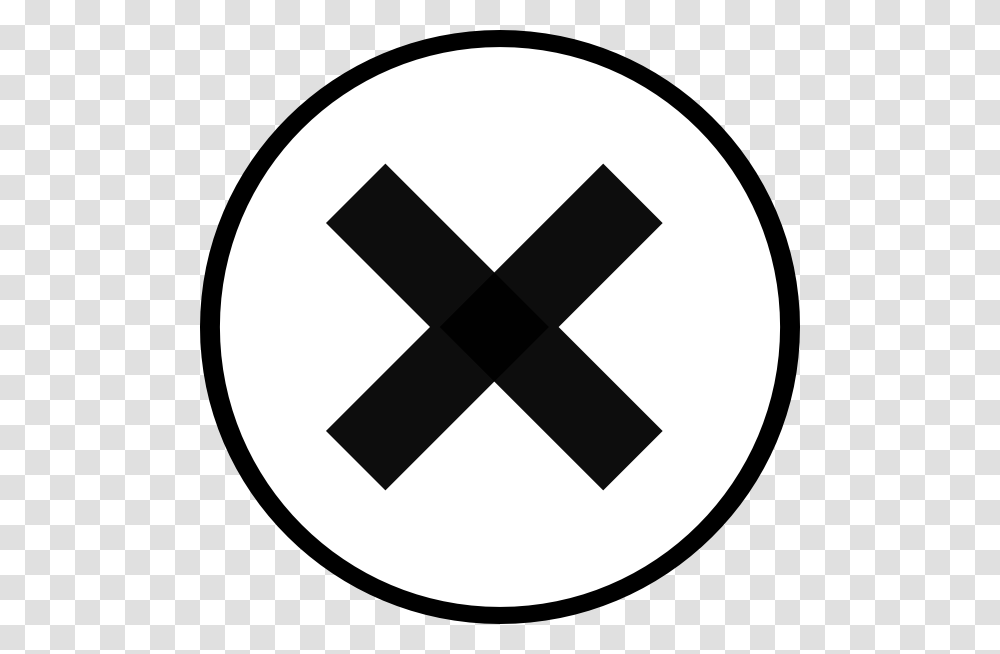
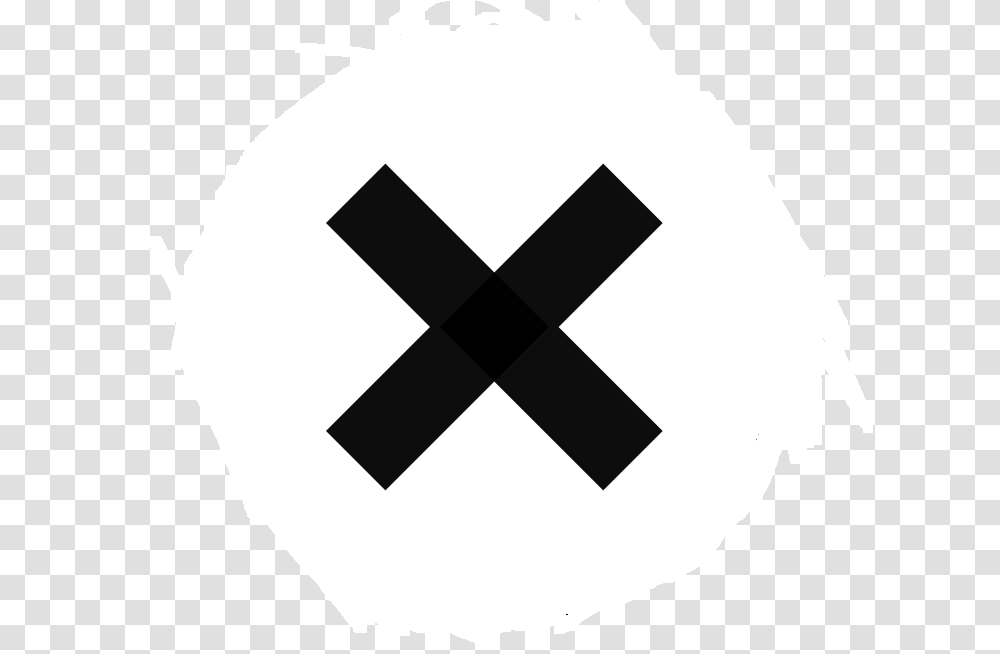
"changed colors of the autoComplete list and changed x button"

Changed region(s): [[0.155, 0.0, 0.868, 0.9786]]

diff --git a/assets/styles/autoTwo.css b/assets/styles/autoTwo.css
@@ -40,7 +40,7 @@ body {
   width: 90%;
   height: 1px;
   margin: 0px auto;
-  border-bottom: 1px solid #969696;
+  border-top: 1px solid #969696;
 }
 .no_result {
   margin: 0.3rem;
@@ -278,7 +278,7 @@ button {
 #autoComplete {
   border-radius: 25px;
   border-color: #cdcff8;
-  color: #BEA9D2;
+  /* color: #BEA9D2; */
   padding-left: 20px;
   padding-right: 20px;
   background-color: white;
@@ -300,7 +300,7 @@ button {
 }
 
 .noGlass {
-  background-image: url(./../../uploads/ResourceImage/xButton-removebg-preview.png);
+  background-image: url("./../../uploads/ResourceImage/xButton-removebg-preview(1).png");
   background-size: 55px;
 }
 
@@ -355,10 +355,11 @@ makes it look quite ugly*/
   border: 1px solid rgba(33, 33, 33, 0.2);
   outline: none;
   height: 45px;
+
 }
 
 .autoComplete_wrapper>input::placeholder {
-  color: #BEA9D2;
+  /* color: #BEA9D2; */
   transition: all 0.3s ease;
 }
 
@@ -376,6 +377,8 @@ makes it look quite ugly*/
   border: 1px solid rgba(33, 33, 33, 0.1);
   outline: none;
   z-index:601;
+  border-bottom-left-radius: 25px;
+  border-bottom-right-radius: 25px;
 }
 
 .autoComplete_wrapper>ul>li {
@@ -383,7 +386,7 @@ makes it look quite ugly*/
   list-style: none;
   text-align: left;
   font-size: 16px;
-  color: #BEA9D2;
+  /* color: #BEA9D2; */
   transition: all 0.1s ease-in-out;
   border-radius: 3px;
   background-color: rgba(255, 255, 255, 1);
@@ -394,6 +397,10 @@ makes it look quite ugly*/
   z-index: 600;
 }
 
+.resultMessage strong
+{
+  color: #6371B6;
+}
 .nav-resources a {
   color: #606eb0;
   border-bottom: 3px solid #606eb0;
@@ -413,7 +420,7 @@ makes it look quite ugly*/
 
 .autoComplete_wrapper>ul>li mark {
   background-color: transparent;
-  color:  #6371B6;
+  color: #969696;
   font-weight: bold;
 }
 
@@ -424,11 +431,6 @@ makes it look quite ugly*/
 
 .autoComplete_wrapper>ul>li[aria-selected="true"] {
   background-color: rgba(123, 123, 123, 0.1);
-}
-
-#autoComplete, #autoComplete:not(:focus)
-{
-  border-radius:25px;
 }
 @media only screen and (max-width: 600px) {
   .autoComplete_wrapper>input {

diff --git a/assets/scripts/resource.js b/assets/scripts/resource.js
@@ -99,16 +99,14 @@ function inputZero(valueLength) {
     } else {
         input.style.borderBottomRightRadius = "0px";
         input.style.borderBottomLeftRadius = "0px";
-        $
         input.setAttribute('class', 'noGlass');
-    }
+    } 
 }
 //deletes the value of autoComplete bar
 function clearAutoComplete(event, eleTest) {
     var rect = eleTest.getBoundingClientRect();
     var x = event.clientX;
-    if (document.querySelector('#autoComplete')
-        .className === 'noGlass') {
+    if (document.querySelector('#autoComplete').className === 'noGlass') {
         // &&(y<rect.y + rect.height && y < rect.y+rect.height-55)
         if (x < (rect.x + rect.width) && x > (rect.x + rect.width - 55)) {
             input.value = "";

diff --git a/index.html b/index.html
@@ -169,6 +169,8 @@ filter: (function (list) {
     var inner = document.createElement("div");
     inner.setAttribute("class", "innerBorder");
     var message = document.createElement("div");
+    message.setAttribute("class", "resultMessage");
+    message.style.color = "#BEA9D2";
     // Append message element to the results list
     var rex = /\S/;
     data.results = [];
